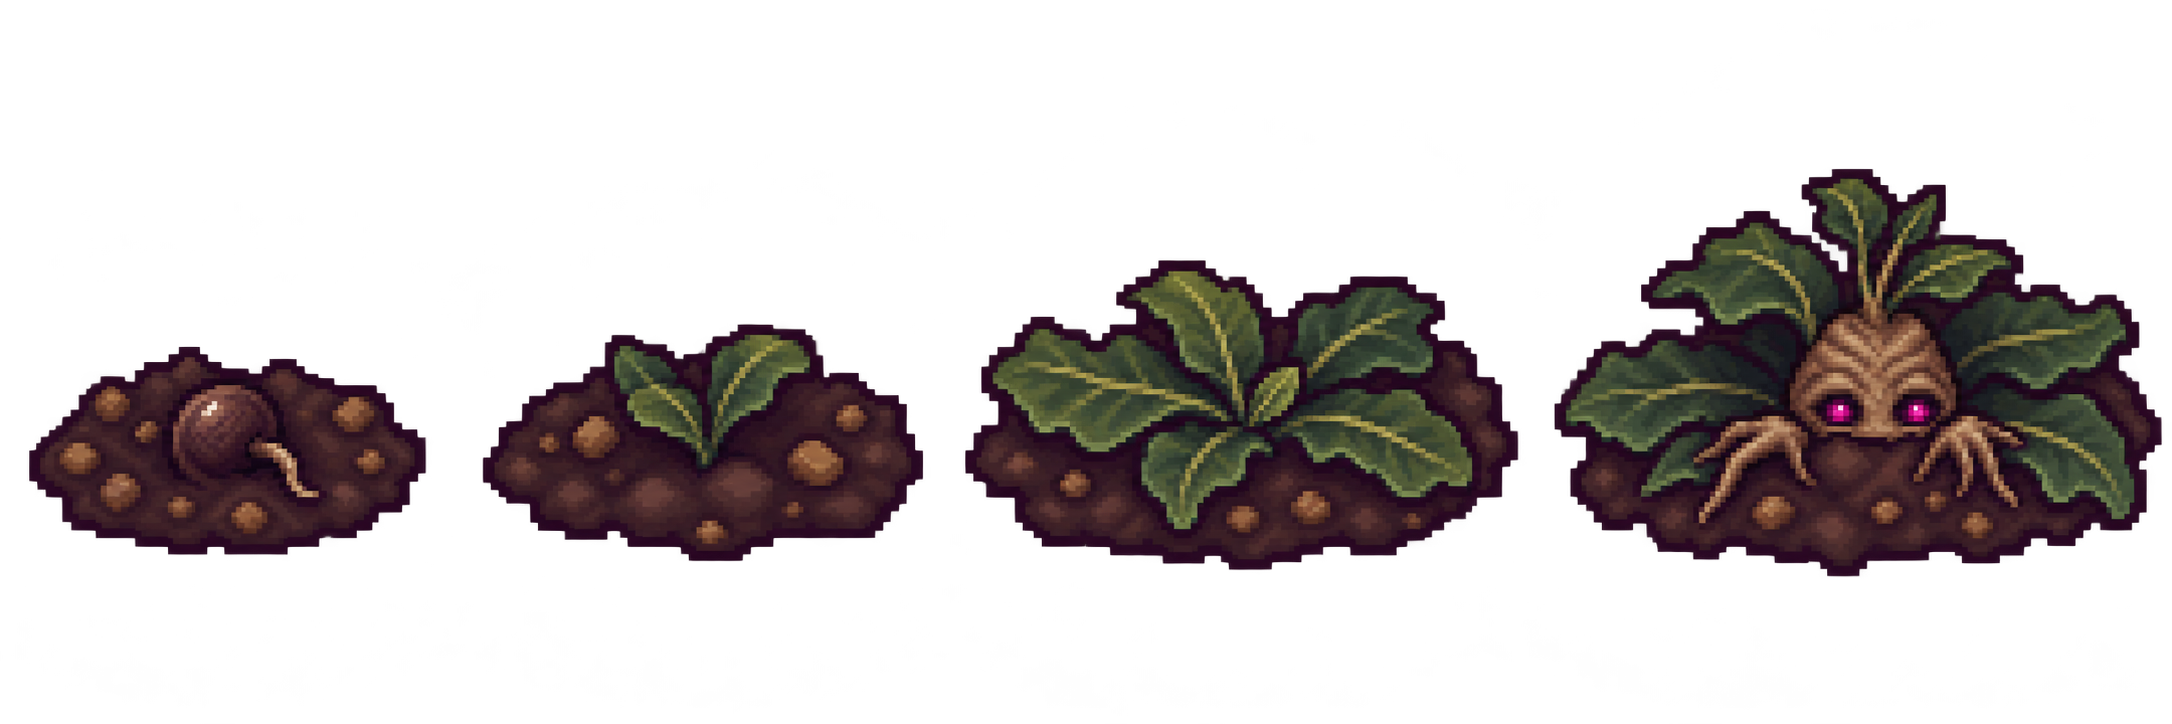
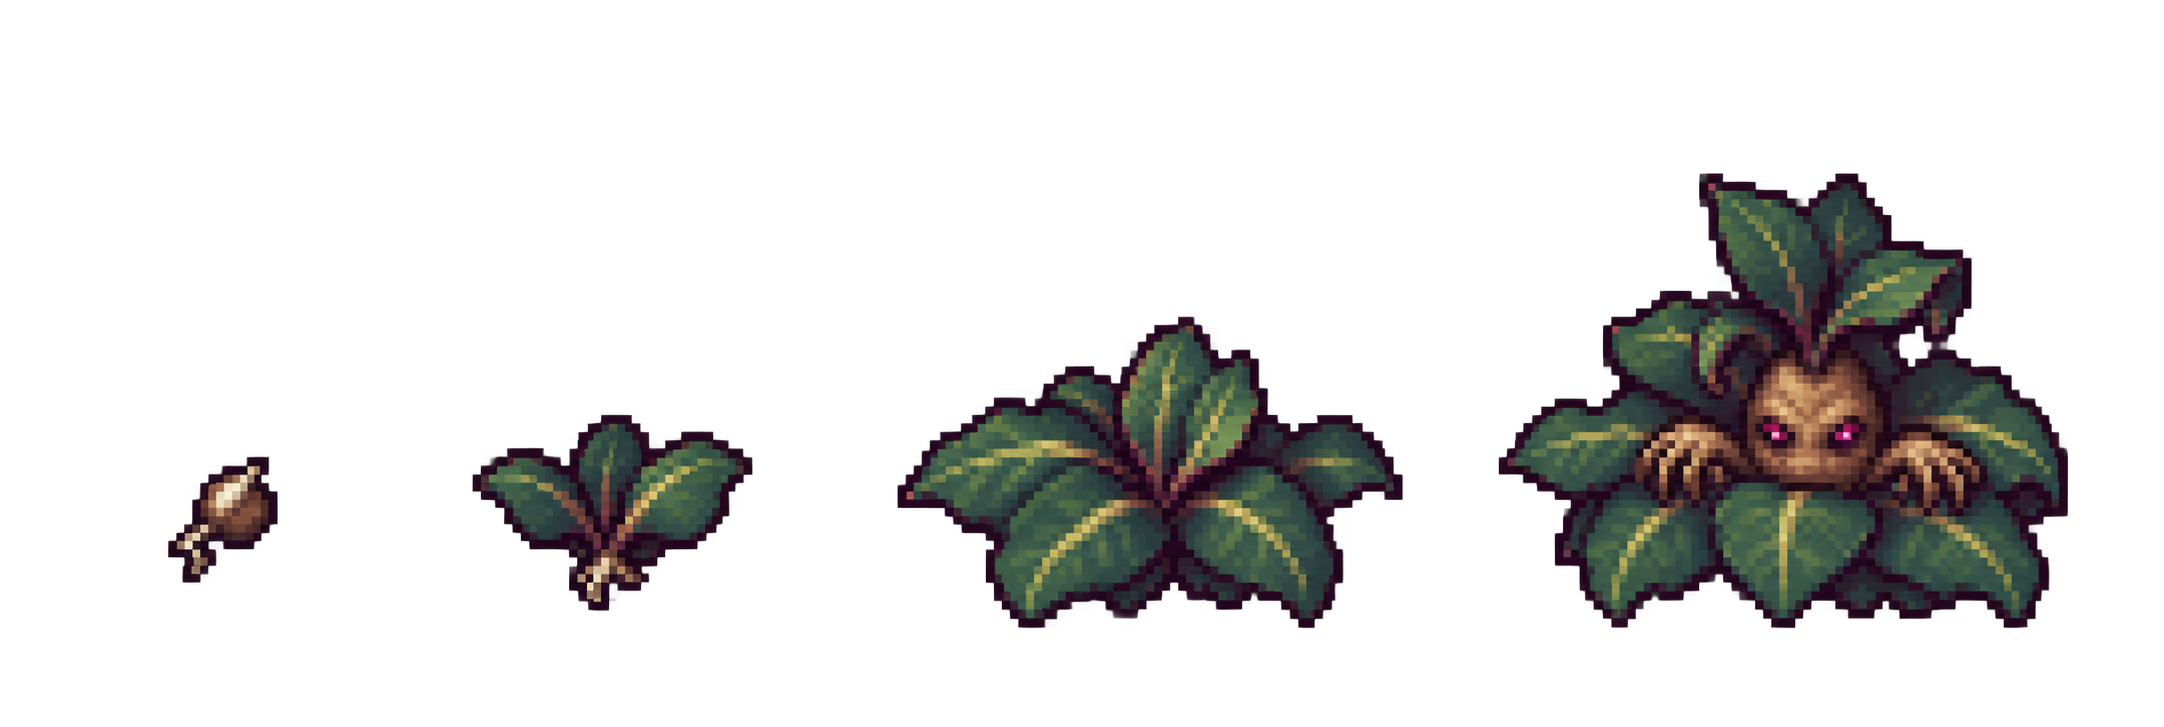
Alraune nach neuer Vorlage, Wurzel- und Moosgrün-Töne in der Palette

Changed region(s): [[0.0, 0.2127, 1.0, 0.8812]]

diff --git a/docs/art/ref_converter/LIESMICH.md b/docs/art/ref_converter/LIESMICH.md
@@ -9,7 +9,7 @@ Ergebnisse in `assets/plants/<pflanze>_stages.png`, Aseprite-Dateien in `art_src
 - **Transparenter Hintergrund**, kein Leuchten/Schein um die Pflanze (das Leuchten macht das Spiel)
 - **Kein Erdhügel**, oder nur ein flacher, der sauber unter der Pflanze liegt.
   Die Pflanze steht im Spiel schon im Beet. Blätter, die über der Erde liegen, lassen sich
-  nicht von ihr trennen (deshalb klappt die Alraune noch nicht)
+  nicht von ihr trennen (die erste Alraunen-Vorlage scheiterte daran)
 - 4 Stufen nebeneinander mit Abstand, nichts dazwischen (keine Funken zwischen den Stufen)
 - Quadratische Pixel, harte Kanten, dunkle Kontur
 - Gleiche Größe pro Vorlagen-Pixel in allen Stufen
@@ -44,3 +44,4 @@ und kommt mit jeder Frame-Größe klar. Danach in `data/plants/<pflanze>.tres` g
 | Geisterfarn | 40×48 | `--breite 40 --kontur` |
 | Nachtschatten | 40×48 | `--breite 40 --kontur --quadrat` |
 | Laternenbeere | 40×48 | `--breite 40 --quadrat --soil 10,11,15,15` |
+| Alraune | 40×48 | `--breite 40`, danach Augen und Gesichtsmitte von Hand aufgehellt |
